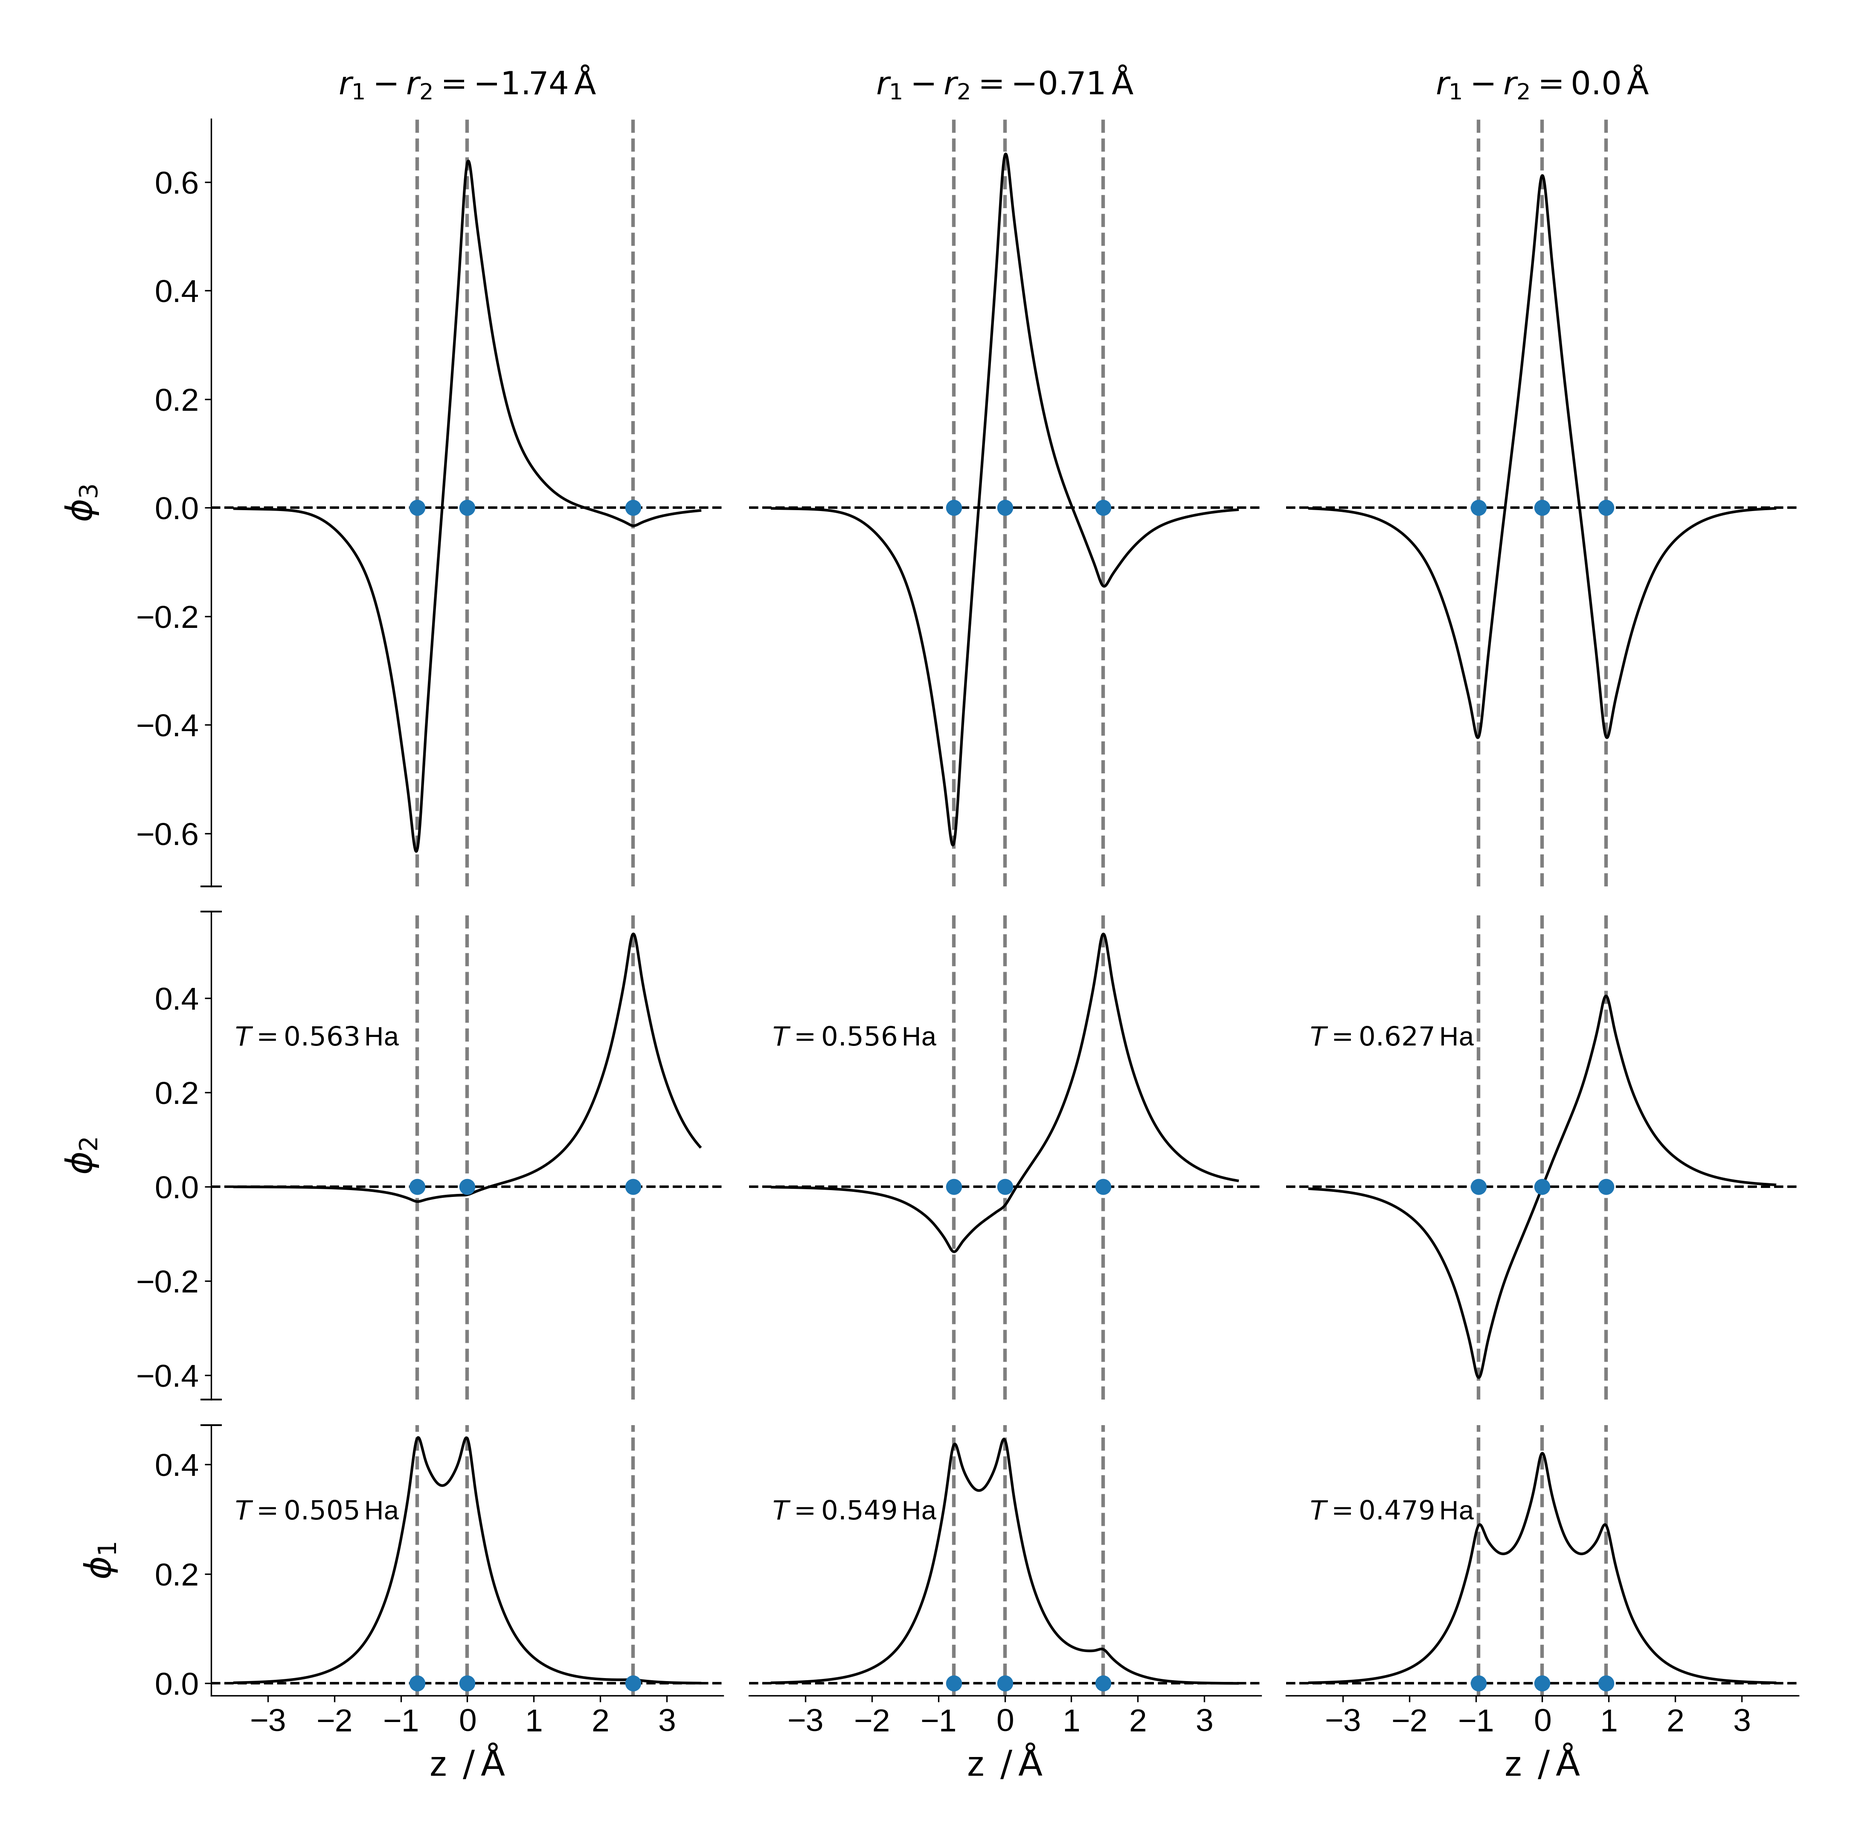
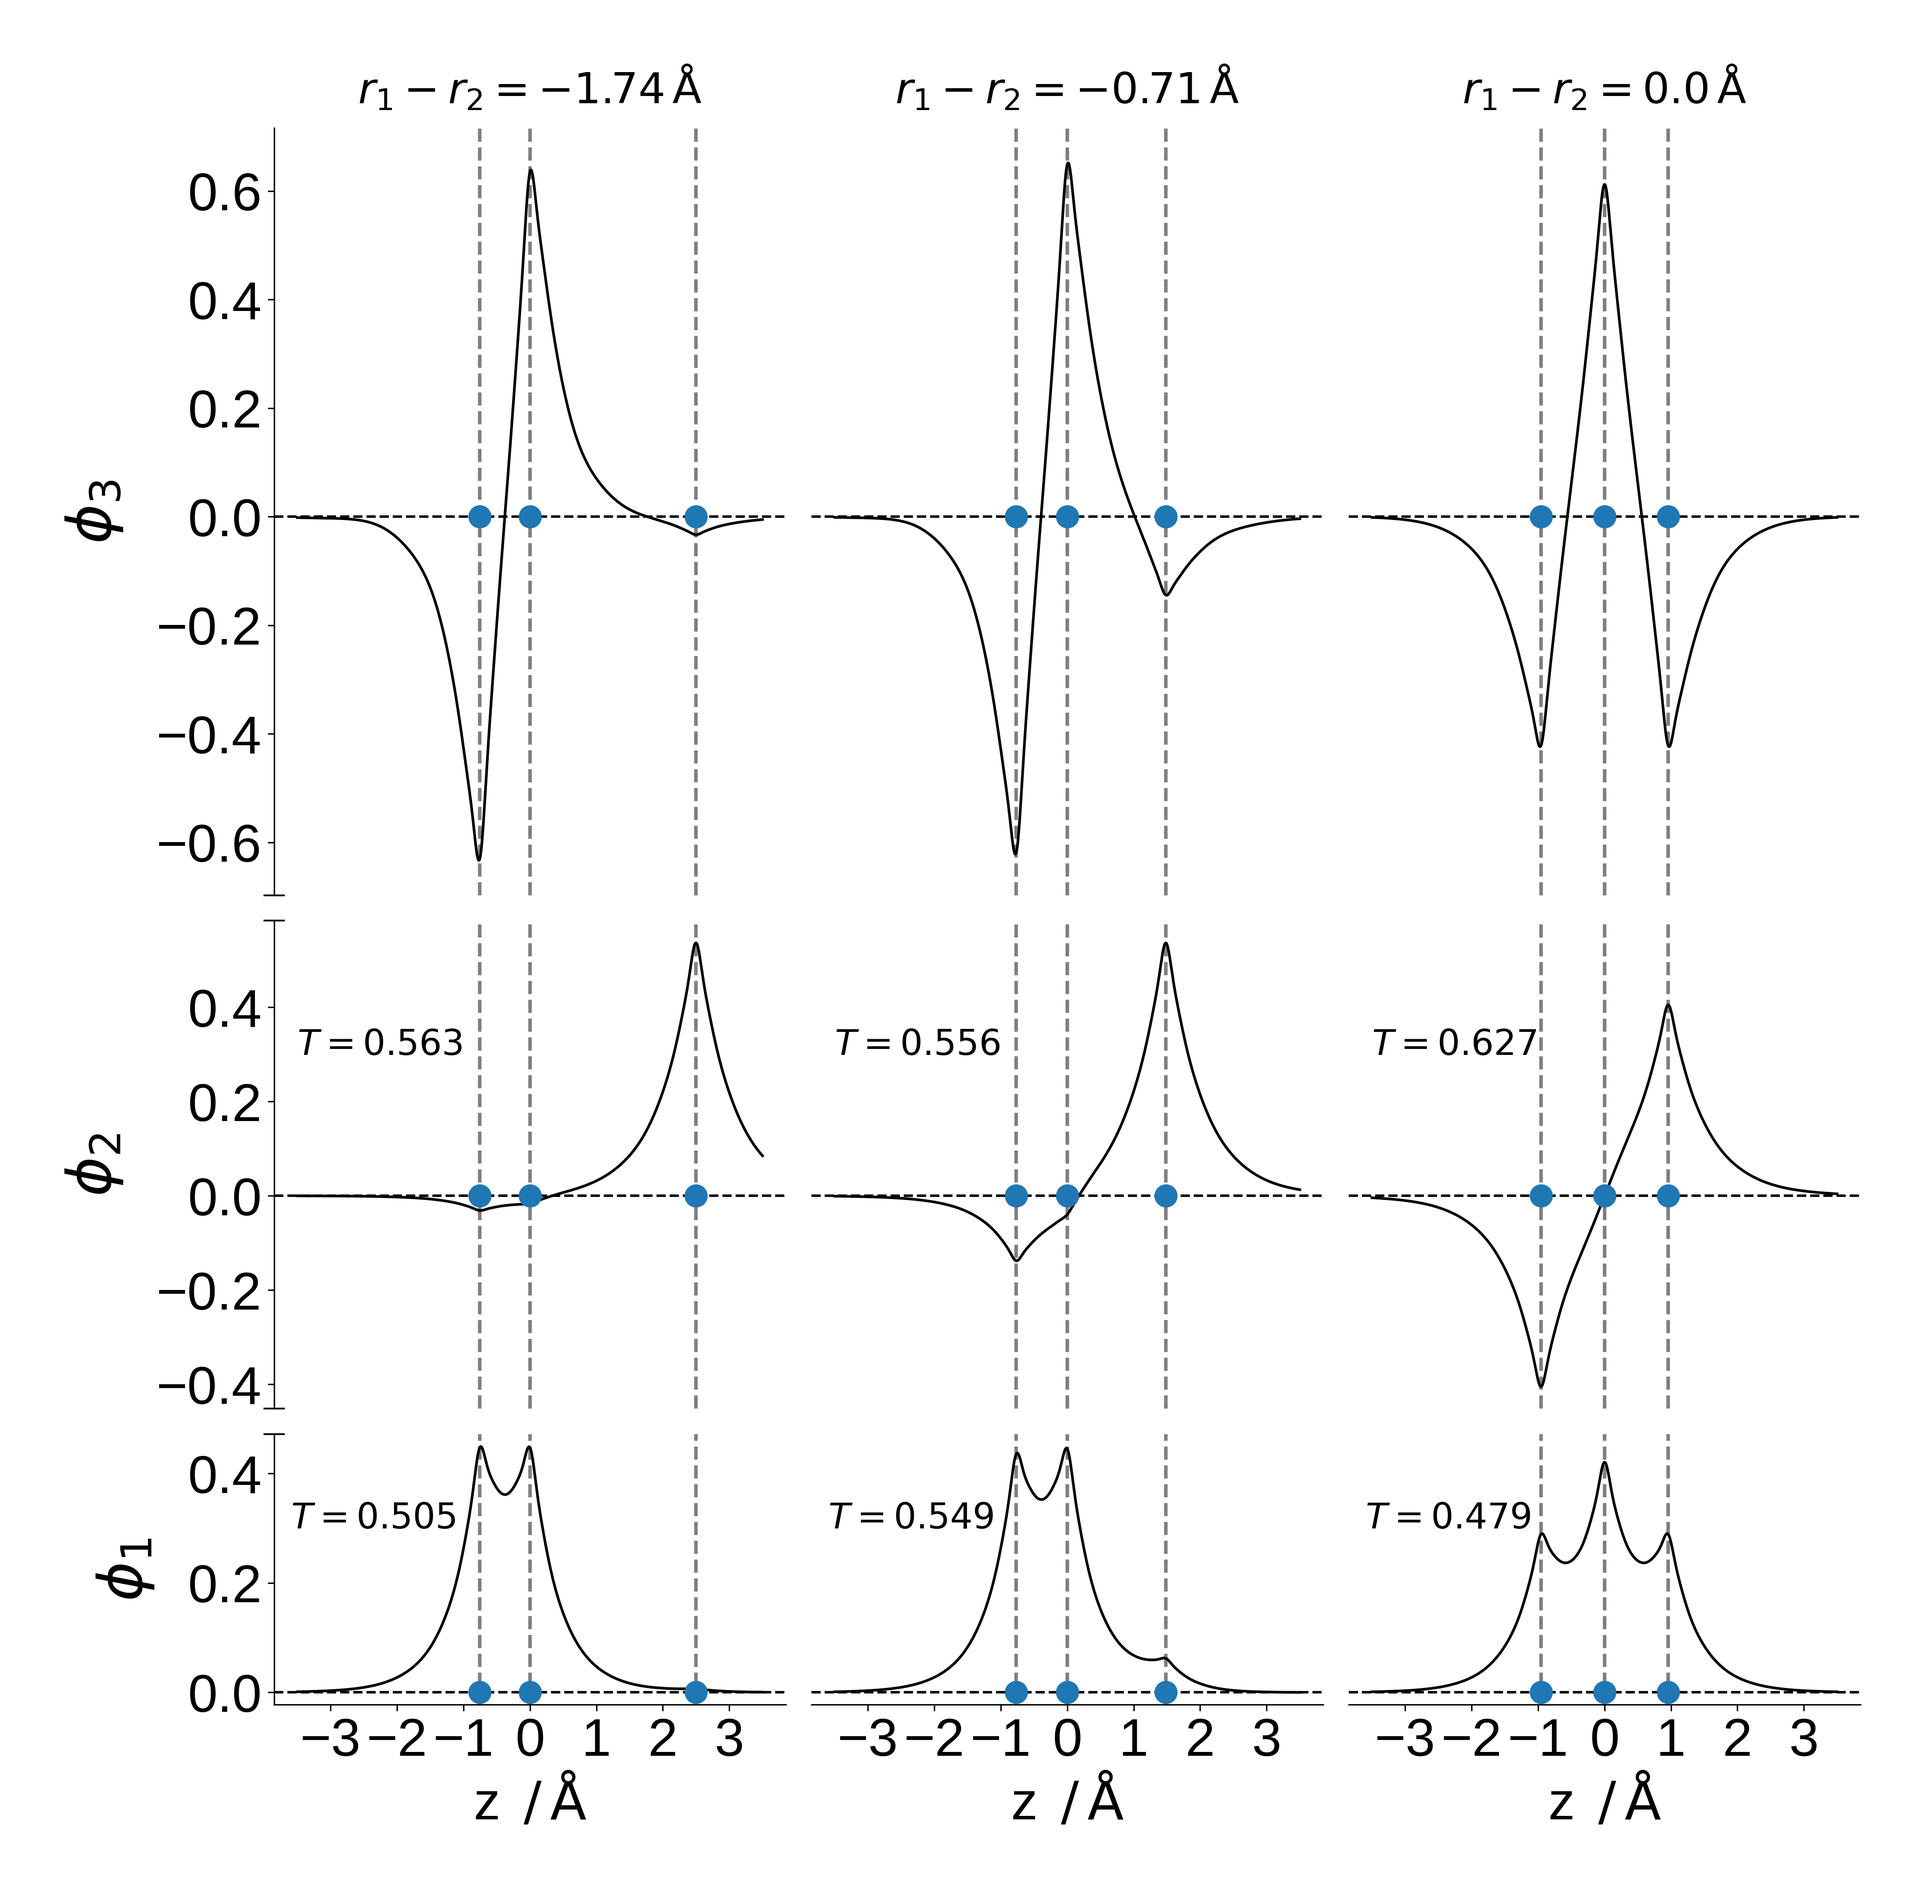
name change for script and new modified images generated

diff --git a/script_to_plot_them_all.py b/script_to_plot_them_all.py
@@ -438,17 +438,17 @@ def stacked_3x3_amp():
     ax1.plot(0, 0, transform=ax1.transAxes, **kwargs)
     ax2.plot([0,0],[0,1], transform=ax2.transAxes, **kwargs)
     ax3.plot(0, 1, transform=ax3.transAxes, **kwargs)
-    ax1.set_ylabel(r'${\phi}_3$',fontsize=20,labelpad=20)
-    ax2.set_ylabel(r'${\phi}_2$',fontsize=20,labelpad=20)
-    ax3.set_ylabel(r'${\phi}_1$',fontsize=20,labelpad=20)
-    ax3.set_xlabel(r'z $\,/\,\mathrm{\AA}$',fontsize=20)
-    ax6.set_xlabel(r'z $\,/\,\mathrm{\AA}$',fontsize=20)
-    ax9.set_xlabel(r'z $\,/\,\mathrm{\AA}$',fontsize=20)
-    ax3.tick_params(which='major', labelsize=18)
-    ax6.tick_params(which='major', labelsize=18)
-    ax9.tick_params(which='major', labelsize=18)
-    ax2.tick_params(which='major', labelsize=18)
-    ax1.tick_params(which='major', labelsize=18)
+    ax1.set_ylabel(r'${\phi}_3$',fontsize=34,labelpad=18)
+    ax2.set_ylabel(r'${\phi}_2$',fontsize=34,labelpad=18)
+    ax3.set_ylabel(r'${\phi}_1$',fontsize=34,labelpad=18)
+    ax3.set_xlabel(r'z $\,/\,\mathrm{\AA}$',fontsize=30)
+    ax6.set_xlabel(r'z $\,/\,\mathrm{\AA}$',fontsize=30)
+    ax9.set_xlabel(r'z $\,/\,\mathrm{\AA}$',fontsize=30)
+    ax3.tick_params(which='major', labelsize=30)
+    ax6.tick_params(which='major', labelsize=30)
+    ax9.tick_params(which='major', labelsize=30)
+    ax2.tick_params(which='major', labelsize=30)
+    ax1.tick_params(which='major', labelsize=30)
 
     ax4.spines.left.set_visible(False)
     ax5.spines.left.set_visible(False)
@@ -472,42 +472,42 @@ def stacked_3x3_amp():
             for pos in atom_pos_2:
                 ax.axvline(x=pos,linestyle='--',linewidth=2.0,color=(0,0,0),alpha=0.5)
             ax.axhline(y=0.0,linestyle='--',linewidth=1.4,color='k')
-            ax.plot(atom_pos_2[0],0,linestyle='',color='tab:blue',marker='.',markersize=16)
-            ax.plot(atom_pos_2[1],0,linestyle='',color='tab:blue',marker='.',markersize=16)
-            ax.plot(atom_pos_2[2],0,linestyle='',color='tab:blue',marker='.',markersize=16)
+            ax.plot(atom_pos_2[0],0,linestyle='',color='tab:blue',marker='.',markersize=24)
+            ax.plot(atom_pos_2[1],0,linestyle='',color='tab:blue',marker='.',markersize=24)
+            ax.plot(atom_pos_2[2],0,linestyle='',color='tab:blue',marker='.',markersize=24)
             ax.yaxis.set_major_locator(ticker.MultipleLocator(0.2))
             ax.xaxis.set_major_locator(ticker.MultipleLocator(1))
         elif plt_no > 2 and plt_no < 6:
             for pos in atom_pos_1:
                 ax.axvline(x=pos,linestyle='--',linewidth=2.0,color=(0,0,0),alpha=0.5)
             ax.axhline(y=0.0,linestyle='--',linewidth=1.4,color='k')
-            ax.plot(atom_pos_1[0],0,linestyle='',color='tab:blue',marker='.',markersize=16)
-            ax.plot(atom_pos_1[1],0,linestyle='',color='tab:blue',marker='.',markersize=16)
-            ax.plot(atom_pos_1[2],0,linestyle='',color='tab:blue',marker='.',markersize=16)
+            ax.plot(atom_pos_1[0],0,linestyle='',color='tab:blue',marker='.',markersize=24)
+            ax.plot(atom_pos_1[1],0,linestyle='',color='tab:blue',marker='.',markersize=24)
+            ax.plot(atom_pos_1[2],0,linestyle='',color='tab:blue',marker='.',markersize=24)
             ax.yaxis.set_major_locator(ticker.MultipleLocator(0.2))
             ax.xaxis.set_major_locator(ticker.MultipleLocator(1))
         else:
             for pos in atom_pos:
                 ax.axvline(x=pos,linestyle='--',linewidth=2.0,color=(0,0,0),alpha=0.5)
             ax.axhline(y=0.0,linestyle='--',linewidth=1.4,color='k')
-            ax.plot(atom_pos[0],0,linestyle='',color='tab:blue',marker='.',markersize=16)
-            ax.plot(atom_pos[1],0,linestyle='',color='tab:blue',marker='.',markersize=16)
-            ax.plot(atom_pos[2],0,linestyle='',color='tab:blue',marker='.',markersize=16)
+            ax.plot(atom_pos[0],0,linestyle='',color='tab:blue',marker='.',markersize=24)
+            ax.plot(atom_pos[1],0,linestyle='',color='tab:blue',marker='.',markersize=24)
+            ax.plot(atom_pos[2],0,linestyle='',color='tab:blue',marker='.',markersize=24)
             ax.yaxis.set_major_locator(ticker.MultipleLocator(0.2))
             ax.xaxis.set_major_locator(ticker.MultipleLocator(1))
 
     #ax1.text(-3.5,0.3,r'$T=1.448\,$Ha',fontsize=15)
-    ax2.text(-3.5,0.3,r'$T=0.563\,$Ha',fontsize=15)
-    ax3.text(-3.5,0.3,r'$T=0.505\,$Ha',fontsize=15)
+    ax2.text(-3.5,0.3,r'$T=0.563\,$',fontsize=20)
+    ax3.text(-3.6,0.3,r'$T=0.505\,$',fontsize=20)
     #ax4.text(-3.5,0.3,r'$T=1.517\,$Ha',fontsize=15)
-    ax5.text(-3.5,0.3,r'$T=0.556\,$Ha',fontsize=15)
-    ax6.text(-3.5,0.3,r'$T=0.549\,$Ha',fontsize=15)
+    ax5.text(-3.5,0.3,r'$T=0.556\,$',fontsize=20)
+    ax6.text(-3.6,0.3,r'$T=0.549\,$',fontsize=20)
     #ax7.text(-3.5,0.3,r'$T=1.419\,$Ha',fontsize=15)
-    ax8.text(-3.5,0.3,r'$T=0.627\,$Ha',fontsize=15)
-    ax9.text(-3.5,0.3,r'$T=0.479\,$Ha',fontsize=15)
-    ax1.set_title(r'$r_1-r_2=−1.74\,\mathrm{\AA}$',pad=14,fontsize=18)
-    ax4.set_title(r'$r_1-r_2=−0.71\,\mathrm{\AA}$',pad=14,fontsize=18)
-    ax7.set_title(r'$r_1-r_2=0.0\,\mathrm{\AA}$',pad=14,fontsize=18)
+    ax8.text(-3.5,0.3,r'$T=0.627\,$',fontsize=20)
+    ax9.text(-3.6,0.3,r'$T=0.479\,$',fontsize=20)
+    ax1.set_title(r'$r_1-r_2=−1.74\,\mathrm{\AA}$',pad=14,fontsize=24)
+    ax4.set_title(r'$r_1-r_2=−0.71\,\mathrm{\AA}$',pad=14,fontsize=24)
+    ax7.set_title(r'$r_1-r_2=0.0\,\mathrm{\AA}$',pad=14,fontsize=24)
 
     plt.savefig('stacked.png',bbox_inches='tight',pad_inches=0.5)
 
